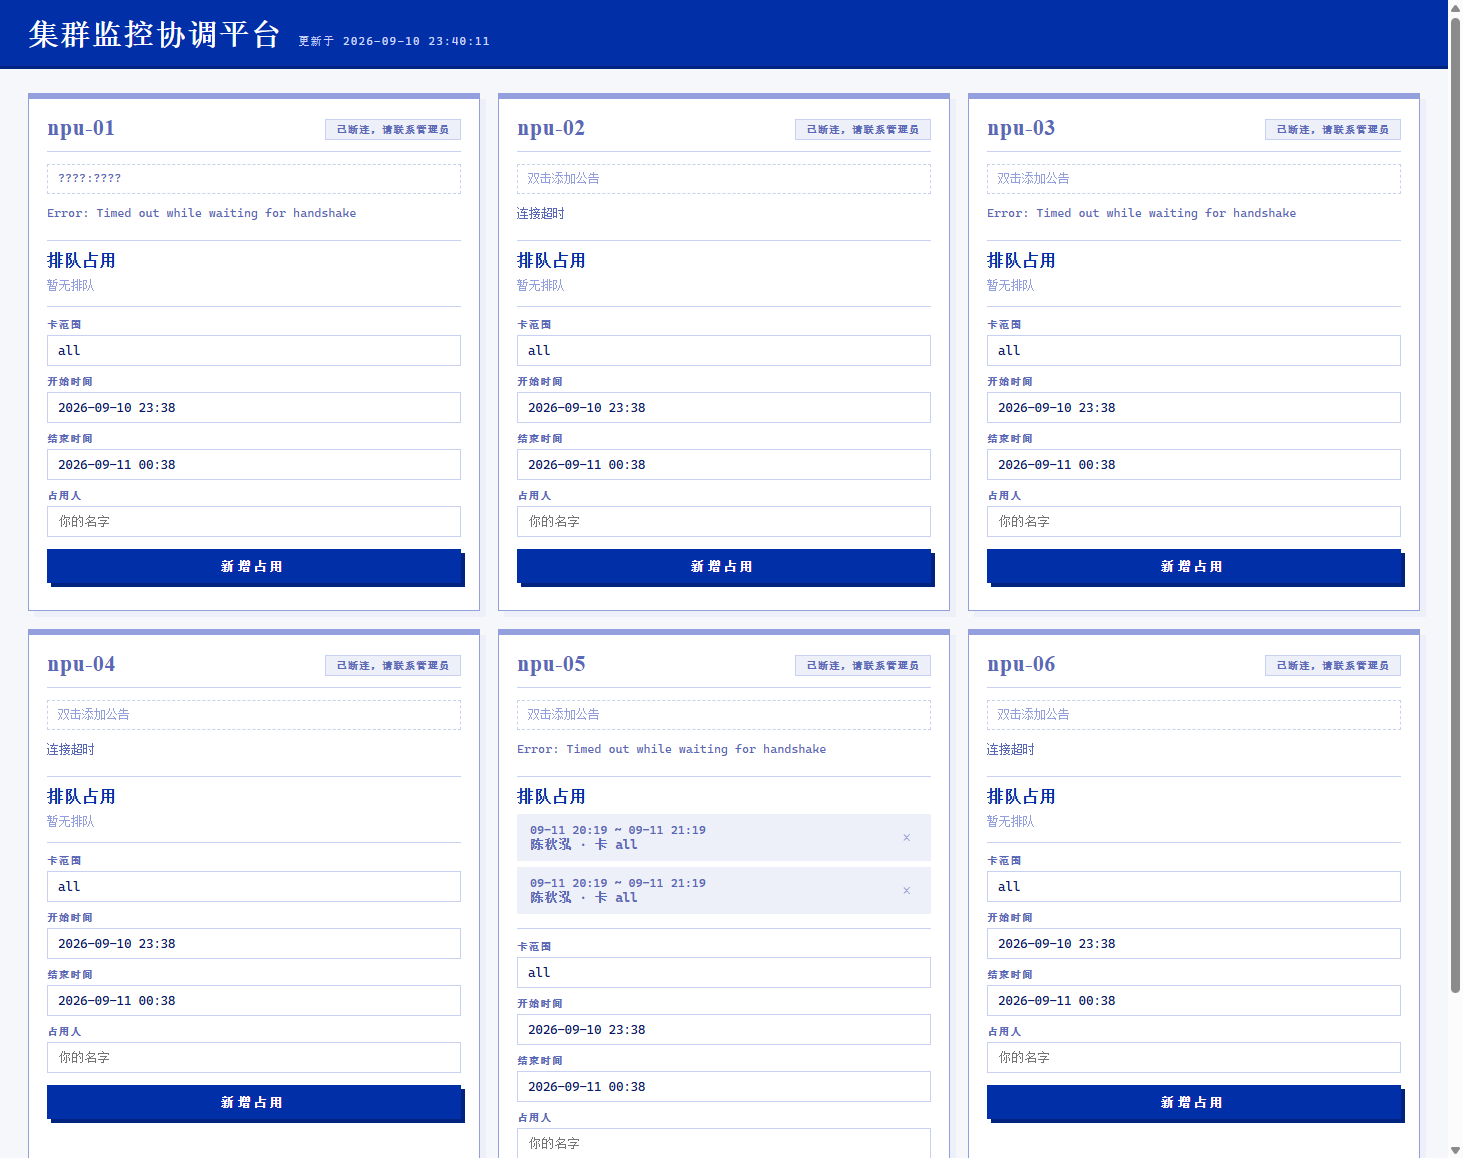
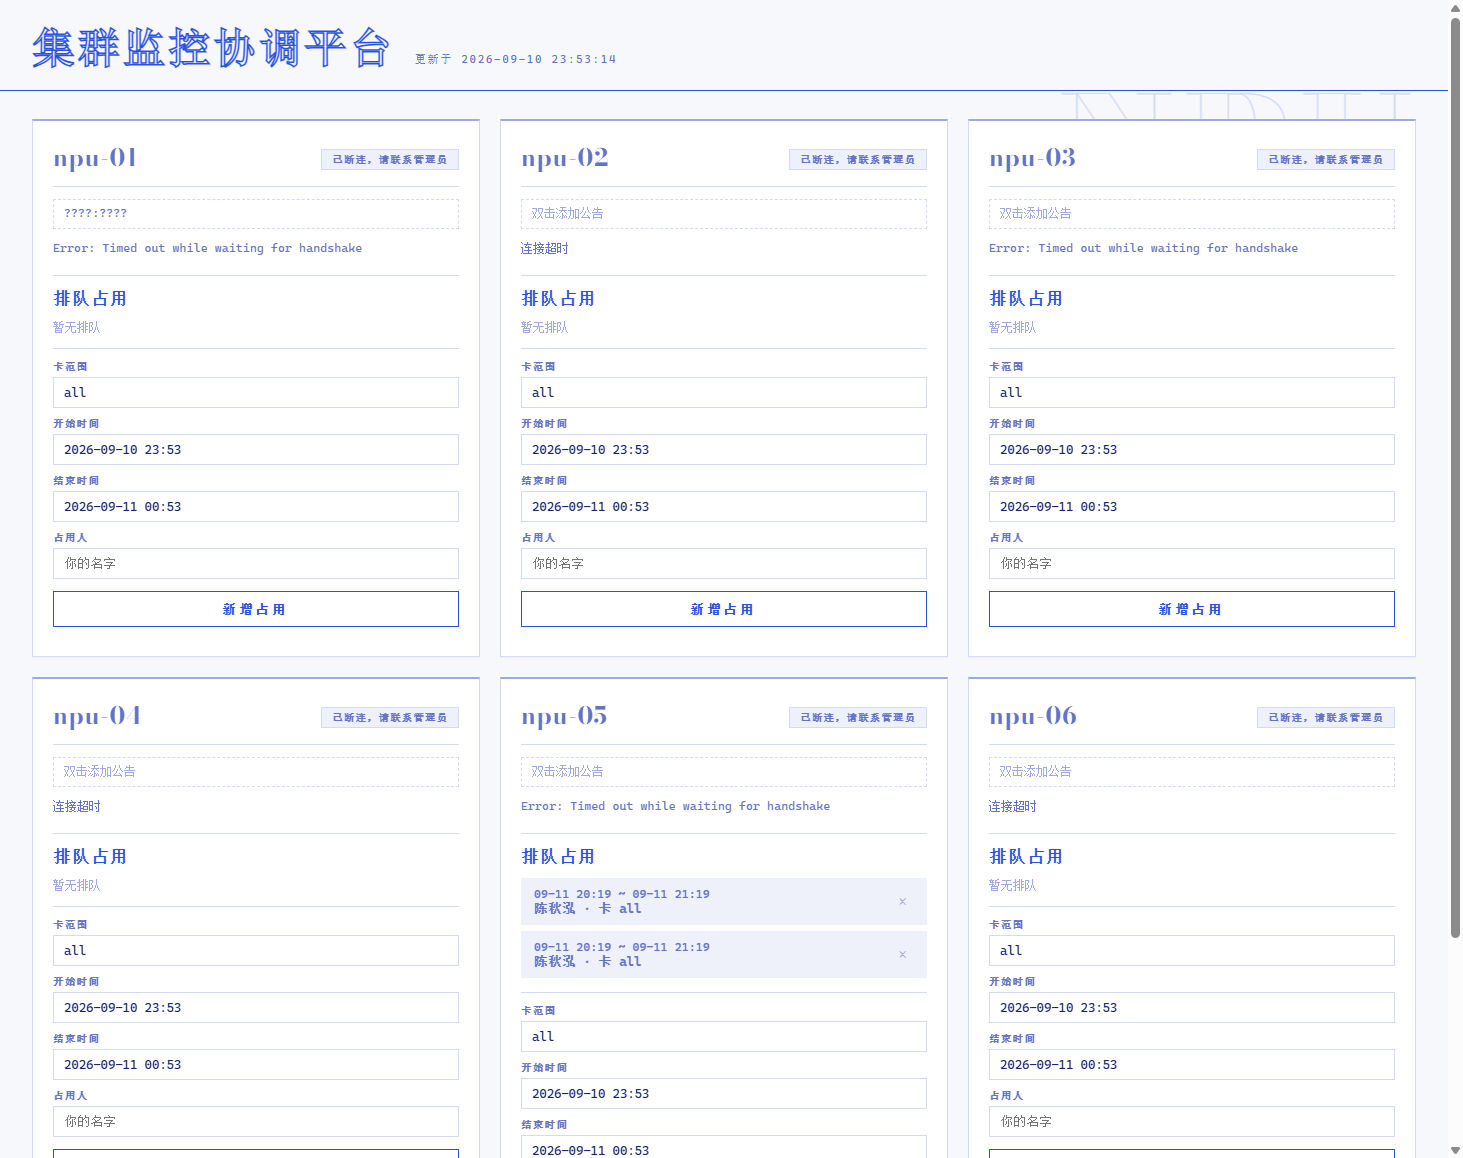
style: 提亮蓝色并改用 Bodoni Moda 镂空标题, 编辑风高级感重设计

Changed region(s): [[0.0, 0.0, 1.0, 1.0], [0.9843, 0.8083, 1.0, 0.8705], [0.5229, 0.6839, 0.5537, 0.715]]

diff --git a/static/style.css b/static/style.css
@@ -1,29 +1,27 @@
-/* 集群监控协调平台 - Klein Blue / Hermes 官网风格
- * 克莱因蓝(IKB) + 米白双色体系; 大标题用 Didone 衬线(Roman)体,
- * 标签/数据用等宽字体全大写宽字距, 直角边框, 色块对比强烈
+/* 集群监控协调平台 - Haute Couture Editorial
+ * 稍浅的克莱因蓝(ultramarine) + 米白; Bodoni Moda(Didone)镂空大标题,
+ * 发丝线分隔、描边按钮、宽字距等宽小字; 卡片错峰入场 + 描边水印
  */
 :root {
-  --ikb: #002fa7;          /* 克莱因蓝 */
-  --ikb-deep: #002380;
-  --ikb-soft: #e8ecfb;     /* 浅蓝底 */
-  --paper: #f6f7fb;        /* 米白底 */
+  --ikb: #2b50df;          /* 稍浅的克莱因蓝 */
+  --ikb-deep: #1e3cb8;
+  --ikb-soft: #edf1fd;     /* 极浅蓝底 */
+  --paper: #f7f8fc;        /* 米白底 */
   --card: #ffffff;
-  --ink: #0a1a66;
-  --muted: #5a68b8;
-  --faint: #93a0dd;
-  --line: #c9d1f2;
+  --ink: #16246e;
+  --muted: #6474c4;
+  --faint: #9fabe0;
+  --line: #d3daf5;
 
-  --green: #0e8a4c;
-  --green-soft: #e2f4ea;
   --red: #d92d2d;
   --red-soft: #fdeaea;
   --warn: #8a5a00;
   --warn-bg: #fff3c9;
   --warn-border: #e4c65f;
-  --idle-bg: #eef0f9;
+  --idle-bg: #eef1fa;
 
-  /* Roman 衬线展示体 (Didone 风格) */
-  --serif: "Didot", "Bodoni MT", "Bodoni 72", "Playfair Display", "Times New Roman", "Songti SC", "SimSun", serif;
+  /* Didone 展示体: 大标题镂空用 */
+  --serif: "Bodoni Moda", "Didot", "Bodoni MT", "Playfair Display", "Times New Roman", "Songti SC", "SimSun", serif;
   /* 等宽: 标签 / 数据 / 小字 */
   --mono: "Cascadia Code", "Cascadia Mono", ui-monospace, Consolas, monospace;
   --sans: var(--mono);
@@ -39,48 +37,74 @@ body {
   color: var(--ink);
 }
 
-/* ---- 顶栏: 克莱因蓝色块 + 白色 Roman 大标题 ---- */
+/* ---- 顶栏: 米白底 + 镂空 Roman 大标题 + 发丝线 ---- */
 header {
   display: flex;
   align-items: baseline;
-  gap: 16px;
-  padding: 20px 28px 16px;
-  background: var(--ikb);
-  color: #fff;
-  border-bottom: 3px solid var(--ikb-deep);
+  gap: 20px;
+  padding: 26px 32px 20px;
+  background: var(--paper);
+  border-bottom: 1px solid var(--ikb);
 }
 header h1 {
   margin: 0;
   font-family: var(--serif);
-  font-size: 30px;
-  font-weight: 700;
-  letter-spacing: 0.04em;
-  line-height: 1;
-  color: #fff;
+  font-size: 42px;
+  font-weight: 800;
+  letter-spacing: 0.06em;
+  line-height: 1.05;
+  color: transparent;
+  -webkit-text-stroke: 1.5px var(--ikb);
+  animation: rise 0.7s cubic-bezier(0.2, 0.7, 0.2, 1) both;
+}
+@supports not (-webkit-text-stroke: 1px black) {
+  header h1 { color: var(--ikb); }
 }
 .refresh-time {
   font-family: var(--mono);
   font-size: 11px;
-  letter-spacing: 0.12em;
+  letter-spacing: 0.16em;
   text-transform: uppercase;
-  color: #cdd6ff;
+  color: var(--muted);
 }
 
-main { padding: 24px 28px 56px; }
+main { position: relative; padding: 28px 32px 64px; }
+
+/* 描边水印: 置于卡片之后, 不拦截交互 */
+main::before {
+  content: "NPU";
+  position: absolute;
+  top: -14px;
+  right: 24px;
+  z-index: 0;
+  font-family: var(--serif);
+  font-size: 150px;
+  font-weight: 800;
+  letter-spacing: 0.08em;
+  line-height: 1;
+  color: transparent;
+  -webkit-text-stroke: 1px var(--line);
+  pointer-events: none;
+  user-select: none;
+}
 
 .hint {
-  margin-top: 20px;
+  position: relative;
+  z-index: 1;
+  margin-top: 24px;
   font-size: 11px;
-  letter-spacing: 0.1em;
+  letter-spacing: 0.12em;
   text-transform: uppercase;
   color: var(--muted);
 }
 
 /* ---- 卡片布局: flex 换行, 末行也撑满整行 ---- */
 .hosts-grid {
+  position: relative;
+  z-index: 1;
   display: flex;
   flex-wrap: wrap;
-  gap: 18px;
+  gap: 20px;
   align-items: stretch;
 }
 
@@ -90,16 +114,25 @@ main { padding: 24px 28px 56px; }
   flex: 1 1 340px;
   min-width: 300px;
   background: var(--card);
-  border: 1.5px solid var(--ikb);
-  border-top: 6px solid var(--ikb);
+  border: 1px solid var(--line);
+  border-top: 2px solid var(--ikb);
   border-radius: 0;
-  padding: 16px 18px 18px;
-  box-shadow: 6px 6px 0 var(--ikb-soft);
+  padding: 18px 20px 20px;
+  box-shadow: 0 1px 0 rgba(22, 36, 110, 0.04);
+  animation: rise 0.6s cubic-bezier(0.2, 0.7, 0.2, 1) both;
 }
-.host-card.offline {
-  border-color: var(--faint);
-  border-top-color: var(--faint);
-  box-shadow: 6px 6px 0 #eef0f9;
+.host-card:nth-child(1) { animation-delay: 0.05s; }
+.host-card:nth-child(2) { animation-delay: 0.11s; }
+.host-card:nth-child(3) { animation-delay: 0.17s; }
+.host-card:nth-child(4) { animation-delay: 0.23s; }
+.host-card:nth-child(5) { animation-delay: 0.29s; }
+.host-card:nth-child(6) { animation-delay: 0.35s; }
+.host-card:hover { border-color: var(--ikb); }
+.host-card.offline { border-top-color: var(--faint); }
+
+@keyframes rise {
+  from { opacity: 0; transform: translateY(14px); }
+  to { opacity: 1; transform: none; }
 }
 
 .host-head {
@@ -109,14 +142,13 @@ main { padding: 24px 28px 56px; }
   gap: 8px;
   margin-bottom: 12px;
   padding-bottom: 10px;
-  border-bottom: 1.5px solid var(--ikb);
+  border-bottom: 1px solid var(--line);
 }
-.host-card.offline .host-head { border-bottom-color: var(--line); }
 .host-name {
   font-family: var(--serif);
   font-weight: 700;
-  font-size: 22px;
-  letter-spacing: 0.02em;
+  font-size: 24px;
+  letter-spacing: 0.03em;
   color: var(--ikb);
 }
 .host-card.offline .host-name { color: var(--muted); }
@@ -124,7 +156,7 @@ main { padding: 24px 28px 56px; }
 .badge {
   font-size: 10px;
   font-weight: 700;
-  letter-spacing: 0.12em;
+  letter-spacing: 0.14em;
   text-transform: uppercase;
   padding: 4px 10px;
   border-radius: 0;
@@ -139,7 +171,7 @@ main { padding: 24px 28px 56px; }
 .announce {
   margin: 0 0 10px;
   padding: 6px 10px;
-  border: 1.5px dashed var(--line);
+  border: 1px dashed var(--line);
   border-radius: 0;
   font-size: 12px;
   color: var(--muted);
@@ -175,7 +207,7 @@ main { padding: 24px 28px 56px; }
   margin-top: 6px;
   font-family: var(--mono);
   font-size: 10px;
-  letter-spacing: 0.1em;
+  letter-spacing: 0.12em;
   text-transform: uppercase;
   color: var(--faint);
 }
@@ -185,17 +217,17 @@ main { padding: 24px 28px 56px; }
 .chip-table th {
   font-size: 10px;
   font-weight: 700;
-  letter-spacing: 0.12em;
+  letter-spacing: 0.14em;
   text-transform: uppercase;
   color: var(--muted);
-  border-bottom: 1.5px solid var(--ikb);
+  border-bottom: 1px solid var(--ikb);
 }
 .chip-table td:first-child { font-family: var(--mono); }
 .usage-cell { min-width: 104px; }
 .usage-label { white-space: nowrap; font-family: var(--mono); font-size: 11px; color: var(--muted); }
 
 .progress {
-  height: 7px;
+  height: 5px;
   background: var(--idle-bg);
   border-radius: 0;
   overflow: hidden;
@@ -216,11 +248,11 @@ main { padding: 24px 28px 56px; }
 .queue-title {
   margin-top: 14px;
   padding-top: 10px;
-  border-top: 1.5px solid var(--line);
+  border-top: 1px solid var(--line);
   font-family: var(--serif);
-  font-size: 16px;
+  font-size: 17px;
   font-weight: 700;
-  letter-spacing: 0.04em;
+  letter-spacing: 0.05em;
   color: var(--ikb);
 }
 
@@ -264,7 +296,7 @@ main { padding: 24px 28px 56px; }
 .queue-list li .tag-now {
   font-size: 9px;
   font-weight: 700;
-  letter-spacing: 0.12em;
+  letter-spacing: 0.14em;
   text-transform: uppercase;
   background: #fff;
   color: var(--ikb);
@@ -292,7 +324,7 @@ main { padding: 24px 28px 56px; }
 .resv-form {
   margin-top: 14px;
   padding-top: 12px;
-  border-top: 1.5px solid var(--line);
+  border-top: 1px solid var(--line);
 }
 .resv-grid {
   display: grid;
@@ -303,7 +335,7 @@ main { padding: 24px 28px 56px; }
   display: block;
   font-size: 10px;
   font-weight: 700;
-  letter-spacing: 0.14em;
+  letter-spacing: 0.16em;
   text-transform: uppercase;
   margin: 0;
   color: var(--muted);
@@ -316,7 +348,7 @@ main { padding: 24px 28px 56px; }
   min-width: 0;
   margin-top: 5px;
   padding: 7px 10px;
-  border: 1.5px solid var(--line);
+  border: 1px solid var(--line);
   border-radius: 0;
   font-size: 12.5px;
   font-family: var(--mono);
@@ -327,32 +359,33 @@ main { padding: 24px 28px 56px; }
 .resv-form input:focus {
   outline: none;
   border-color: var(--ikb);
-  box-shadow: 3px 3px 0 var(--ikb-soft);
+  box-shadow: 0 1px 0 var(--ikb);
 }
+/* 描边按钮: 悬停反色填充 */
 .resv-form button {
   width: 100%;
   margin-top: 12px;
   padding: 10px;
-  border: none;
+  border: 1.5px solid var(--ikb);
   border-radius: 0;
-  background: var(--ikb);
-  color: #fff;
+  background: transparent;
+  color: var(--ikb);
   font-family: var(--sans);
   font-size: 12px;
   font-weight: 700;
-  letter-spacing: 0.28em;
+  letter-spacing: 0.3em;
   text-transform: uppercase;
   cursor: pointer;
-  box-shadow: 4px 4px 0 var(--ikb-deep);
-  transition: transform 0.1s, box-shadow 0.1s, background 0.15s;
+  transition: background 0.18s, color 0.18s, transform 0.1s;
 }
-.resv-form button:hover { background: var(--ikb-deep); }
-.resv-form button:active {
-  transform: translate(2px, 2px);
-  box-shadow: 0 0 0 var(--ikb-deep);
-}
+.resv-form button:hover { background: var(--ikb); color: #fff; }
+.resv-form button:active { transform: translateY(1px); }
 
 .form-msg { margin-top: 9px; font-size: 12.5px; font-weight: 700; }
-.form-msg.ok { color: var(--green); }
+.form-msg.ok { color: #0e8a4c; }
 .form-msg.err { color: var(--red); }
 .form-msg.warn { color: var(--warn); white-space: pre-line; }
+
+@media (prefers-reduced-motion: reduce) {
+  header h1, .host-card { animation: none; }
+}

diff --git a/static/index.html b/static/index.html
@@ -4,6 +4,9 @@
 <meta charset="utf-8">
 <meta name="viewport" content="width=device-width, initial-scale=1">
 <title>集群监控协调平台</title>
+<link rel="preconnect" href="https://fonts.googleapis.com">
+<link rel="preconnect" href="https://fonts.gstatic.com" crossorigin>
+<link href="https://fonts.googleapis.com/css2?family=Bodoni+Moda:opsz,wght@6..96,400..900&display=swap" rel="stylesheet">
 <link rel="stylesheet" href="/static/style.css">
 </head>
 <body>
